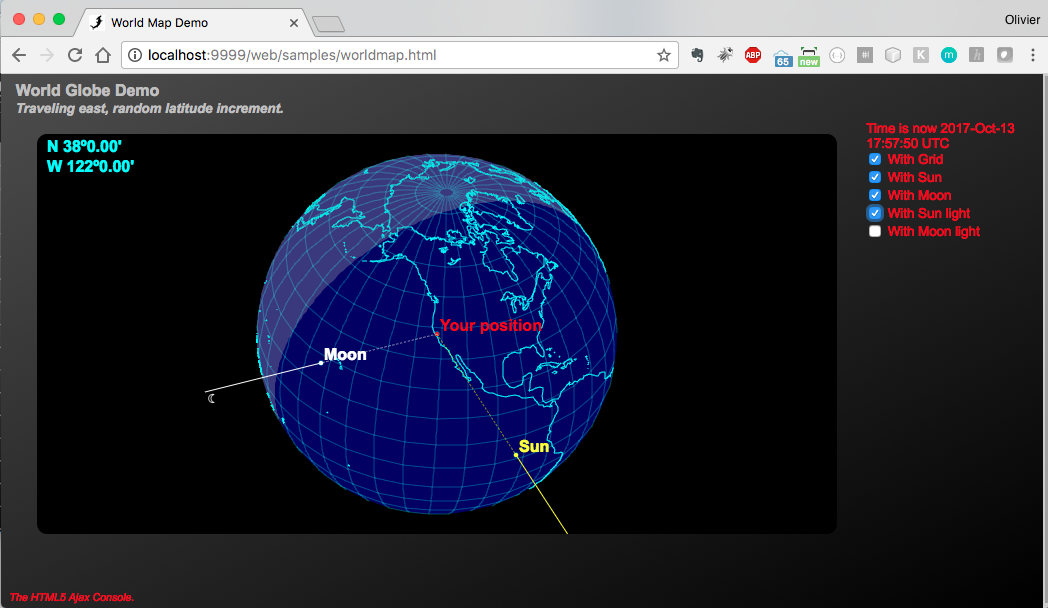
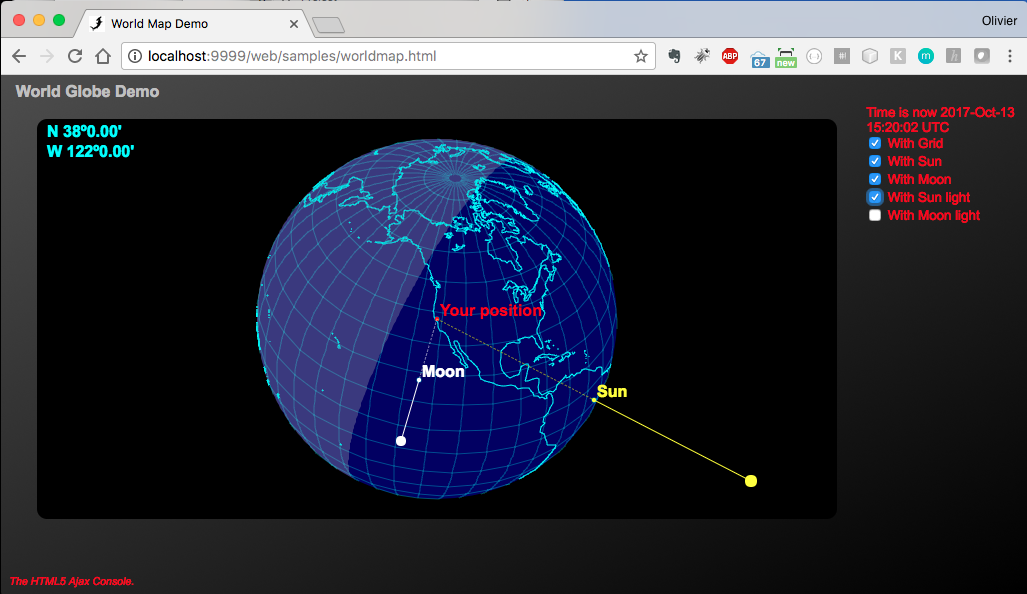
Updated screenshots

diff --git a/RESTNavServer/web/widgets/worldmap.js b/RESTNavServer/web/widgets/worldmap.js
@@ -114,6 +114,15 @@ function WorldMap (cName, prj) {
 		context.closePath();
 	};
 
+	var fillCircle = function(context, pt, radius, color) {
+		context.beginPath();
+		context.fillStyle = color;
+		context.arc(pt.x, pt.y, radius, 0, radius * Math.PI);
+//	context.stroke();
+		context.fill();
+		context.closePath();
+	};
+
 	var currentStep = 0;
 	this.travel = function (canvasName, from, to, nbStep) {
 		var newX = from.x + (currentStep * (to.x - from.x) / nbStep);
@@ -554,9 +563,15 @@ function WorldMap (cName, prj) {
 					context.lineTo(sun.x + deltaX, sun.y + deltaY);
 					context.stroke();
 					context.closePath();
-					var img = document.getElementById("sun-png");
-					context.drawImage(img, sun.x + deltaX, sun.y + deltaY);
-
+					if (false) {
+						var img = document.getElementById("sun-png"); // 13x13
+						var direction = getDir(deltaX, -deltaY);
+						var imgXOffset = 7 * Math.sin(toRadians(direction));
+						var imgYOffset = 7 * Math.cos(toRadians(direction));
+						context.drawImage(img, sun.x + deltaX + Math.ceil(imgXOffset), sun.y + deltaY - Math.ceil(imgYOffset));
+					} else {
+						fillCircle(context, { x: sun.x + deltaX, y: sun.y + deltaY}, 6, 'yellow');
+					}
 				}
 				// Route to sun?
 				// context.lineWidth = 1;
@@ -596,8 +611,15 @@ function WorldMap (cName, prj) {
 					context.lineTo(moon.x + deltaX, moon.y + deltaY);
 					context.stroke();
 					context.closePath();
-					var img = document.getElementById("moon-png");
-					context.drawImage(img, moon.x + deltaX, moon.y + deltaY);
+					if (false) {
+						var img = document.getElementById("moon-png");
+						var direction = getDir(deltaX, -deltaY);
+						var imgXOffset = 7 * Math.sin(toRadians(direction));
+						var imgYOffset = 7 * Math.cos(toRadians(direction));
+						context.drawImage(img, moon.x + deltaX + Math.ceil(imgXOffset), moon.y + deltaY - Math.ceil(imgYOffset));
+					} else {
+						fillCircle(context, { x: moon.x + deltaX, y: moon.y + deltaY}, 5, 'white');
+					}
 				}
 				// Moonlight
 				if (withMoonlight) {

diff --git a/RESTNavServer/web/samples/worldmap.html b/RESTNavServer/web/samples/worldmap.html
@@ -129,7 +129,7 @@
   </head>
   <body>
     <h2>World Globe Demo</h2>
-    <h4>Traveling east, random latitude increment.</h4>
+    <!--h4>Traveling east, random latitude increment.</h4-->
     <div style="display: none;">
       <img src="../images/moon-white.png" id="moon-png" />
       <img src="../images/sun-white.png" id="sun-png" />

diff --git a/RESTNavServer/web/samples/worldmap.demo.js b/RESTNavServer/web/samples/worldmap.demo.js
@@ -105,7 +105,7 @@ var getCurrentUTCDate = function() {
 	var date = new Date();
 	var offset = date.getTimezoneOffset() * MINUTE; // in millisecs
 
-	return new Date().getTime() + offset;
+	return new Date().getTime() + offset; // - (6 * 3600 * 1000);
 };
 
 var initAjax = function () {
